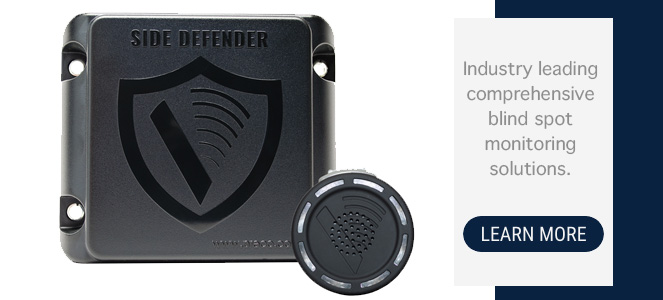
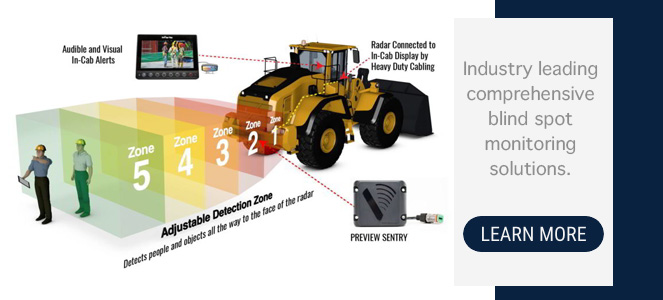
footer started

diff --git a/index.html b/index.html
@@ -105,14 +105,41 @@
 
     <div class="break"></div>
 
-    <div col-12 col-lg-6>
-        <a href="https://preco.com/side_defender/"> <img src="/assets/product-ad.jpg"
-                alt="PreView Side Defender II"></a>
-
-
+    <div class="row">
+        <div class="col-12 col-lg-7">
+            <a href="https://preco.com/sentry/"> <img src="/assets/product-ad.jpg" alt="PreView Sentry"></a>
+        </div>
+        <div class="col-12 col-lg-5 ad-text">
+            <p>PreView Sentry® is the industry’s most flexible, accurate, and powerful active blind spot monitoring
+                solution available. Sentry has a fully configurable detection zone, with the ability to detect objects
+                from the face of the radar up to 30 meters (98 feet), and the width of the detection zone is adjustable
+                to fit almost all vehicle types.</p>
+        </div>
     </div>
 
+    <footer>
+        <div class="row">
 
+
+
+        </div>
+        <div class="break"></div>
+        <div class="row">
+            <div class="col-3">
+                <p>Login for Dealer Access</p>
+                <div class="input-group mb-3">
+                    <input type="text" class="form-control" placeholder="email" aria-describedby="basic-addon2">
+                    <div class="input-group-append">
+                        <span class="input-group-text" id="basic-addon2">Login In</span>
+                    </div>
+                </div>
+
+            </div>
+
+
+        </div>
+
+    </footer>
 
 
 </body>

diff --git a/style.css b/style.css
@@ -1,11 +1,11 @@
 body {
-    margin: 20px;
+    margin: 30px;
     font-family: 'Roboto',
         sans-serif;
 }
 
 .pm .btn.btn-light {
-    color: #76777B
+    color: #76777B;
 }
 
 .case-study-image {
@@ -34,22 +34,28 @@ body {
 }
 
 .case-study-container {
-    text-align: center
+    text-align: center;
 }
 
 h4,
 h5 {
-    color: #76777B
+    color: #76777B;
 }
 
 p {
-    color: #8D8D8D
+    color: #8D8D8D;
 }
 
 .break {
-    height: 3px;
+    height: 2px;
     background-color: #8D8D8D;
-    border: 3px;
+    border: 2px;
     margin-bottom: 75px;
     margin-top: 15px;
+}
+
+.ad-text {
+    vertical-align: middle;
+    text-align: justify;
+    padding-top: 65px;
 }
